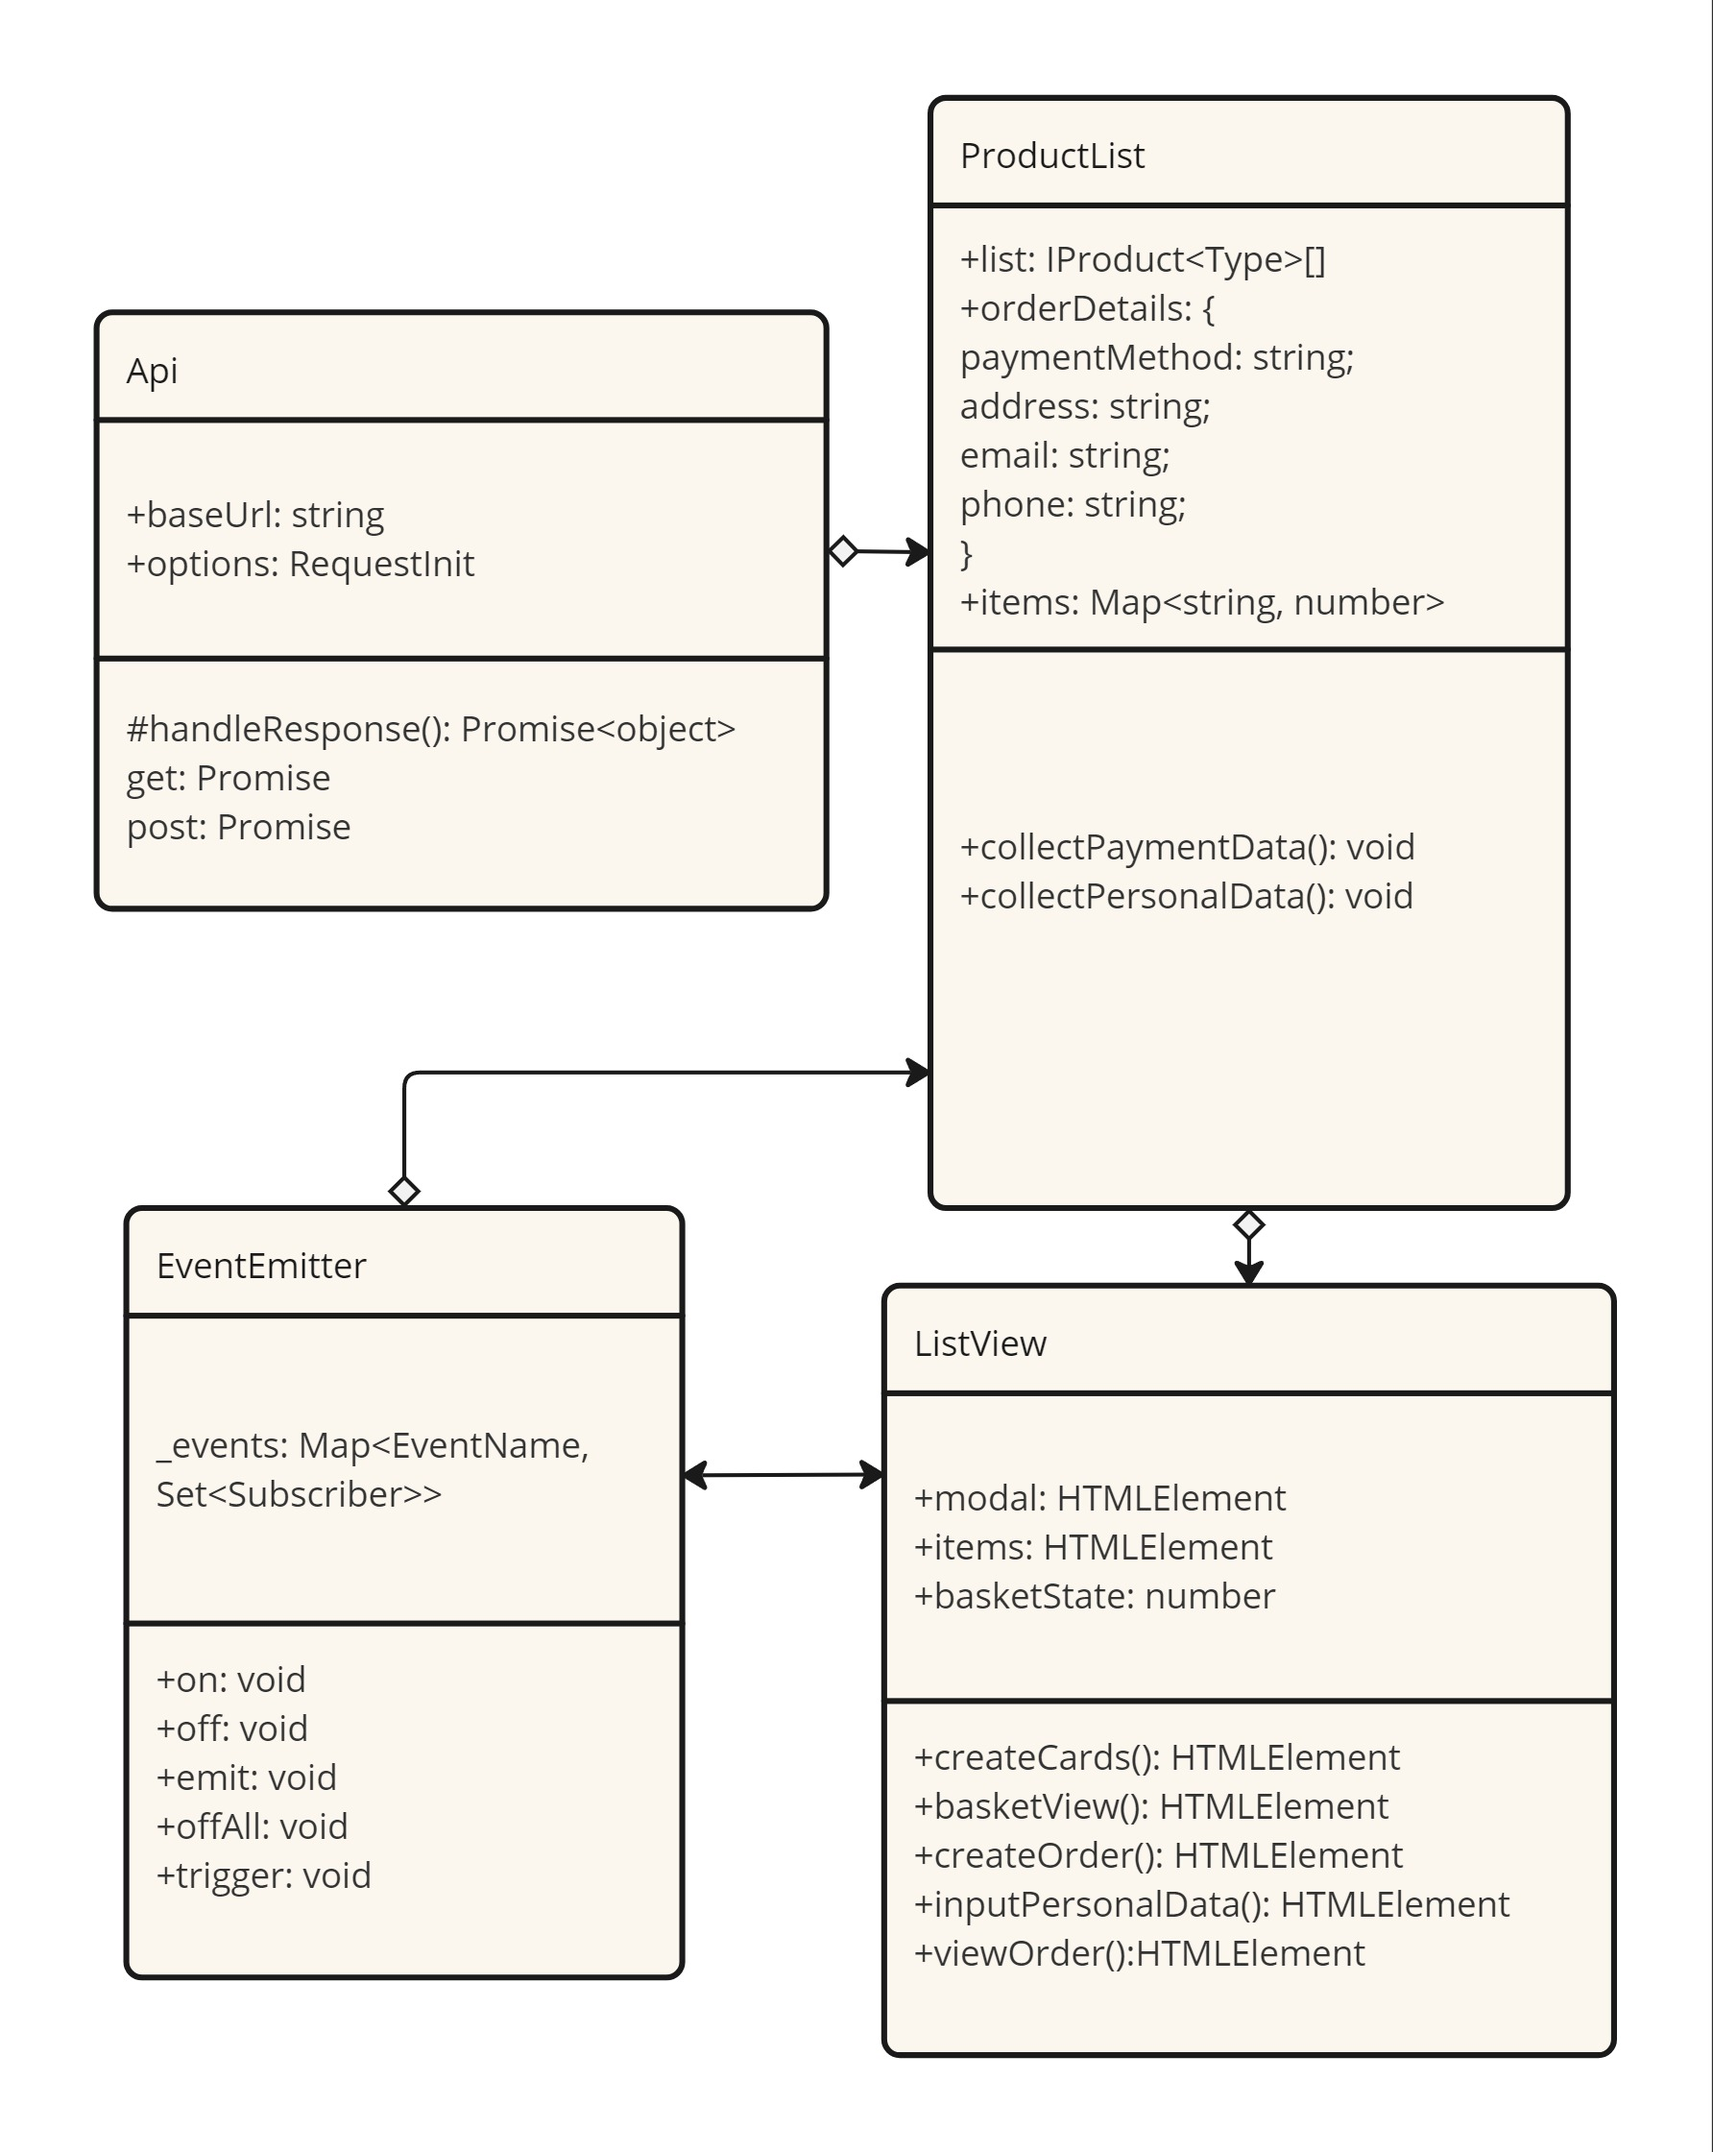
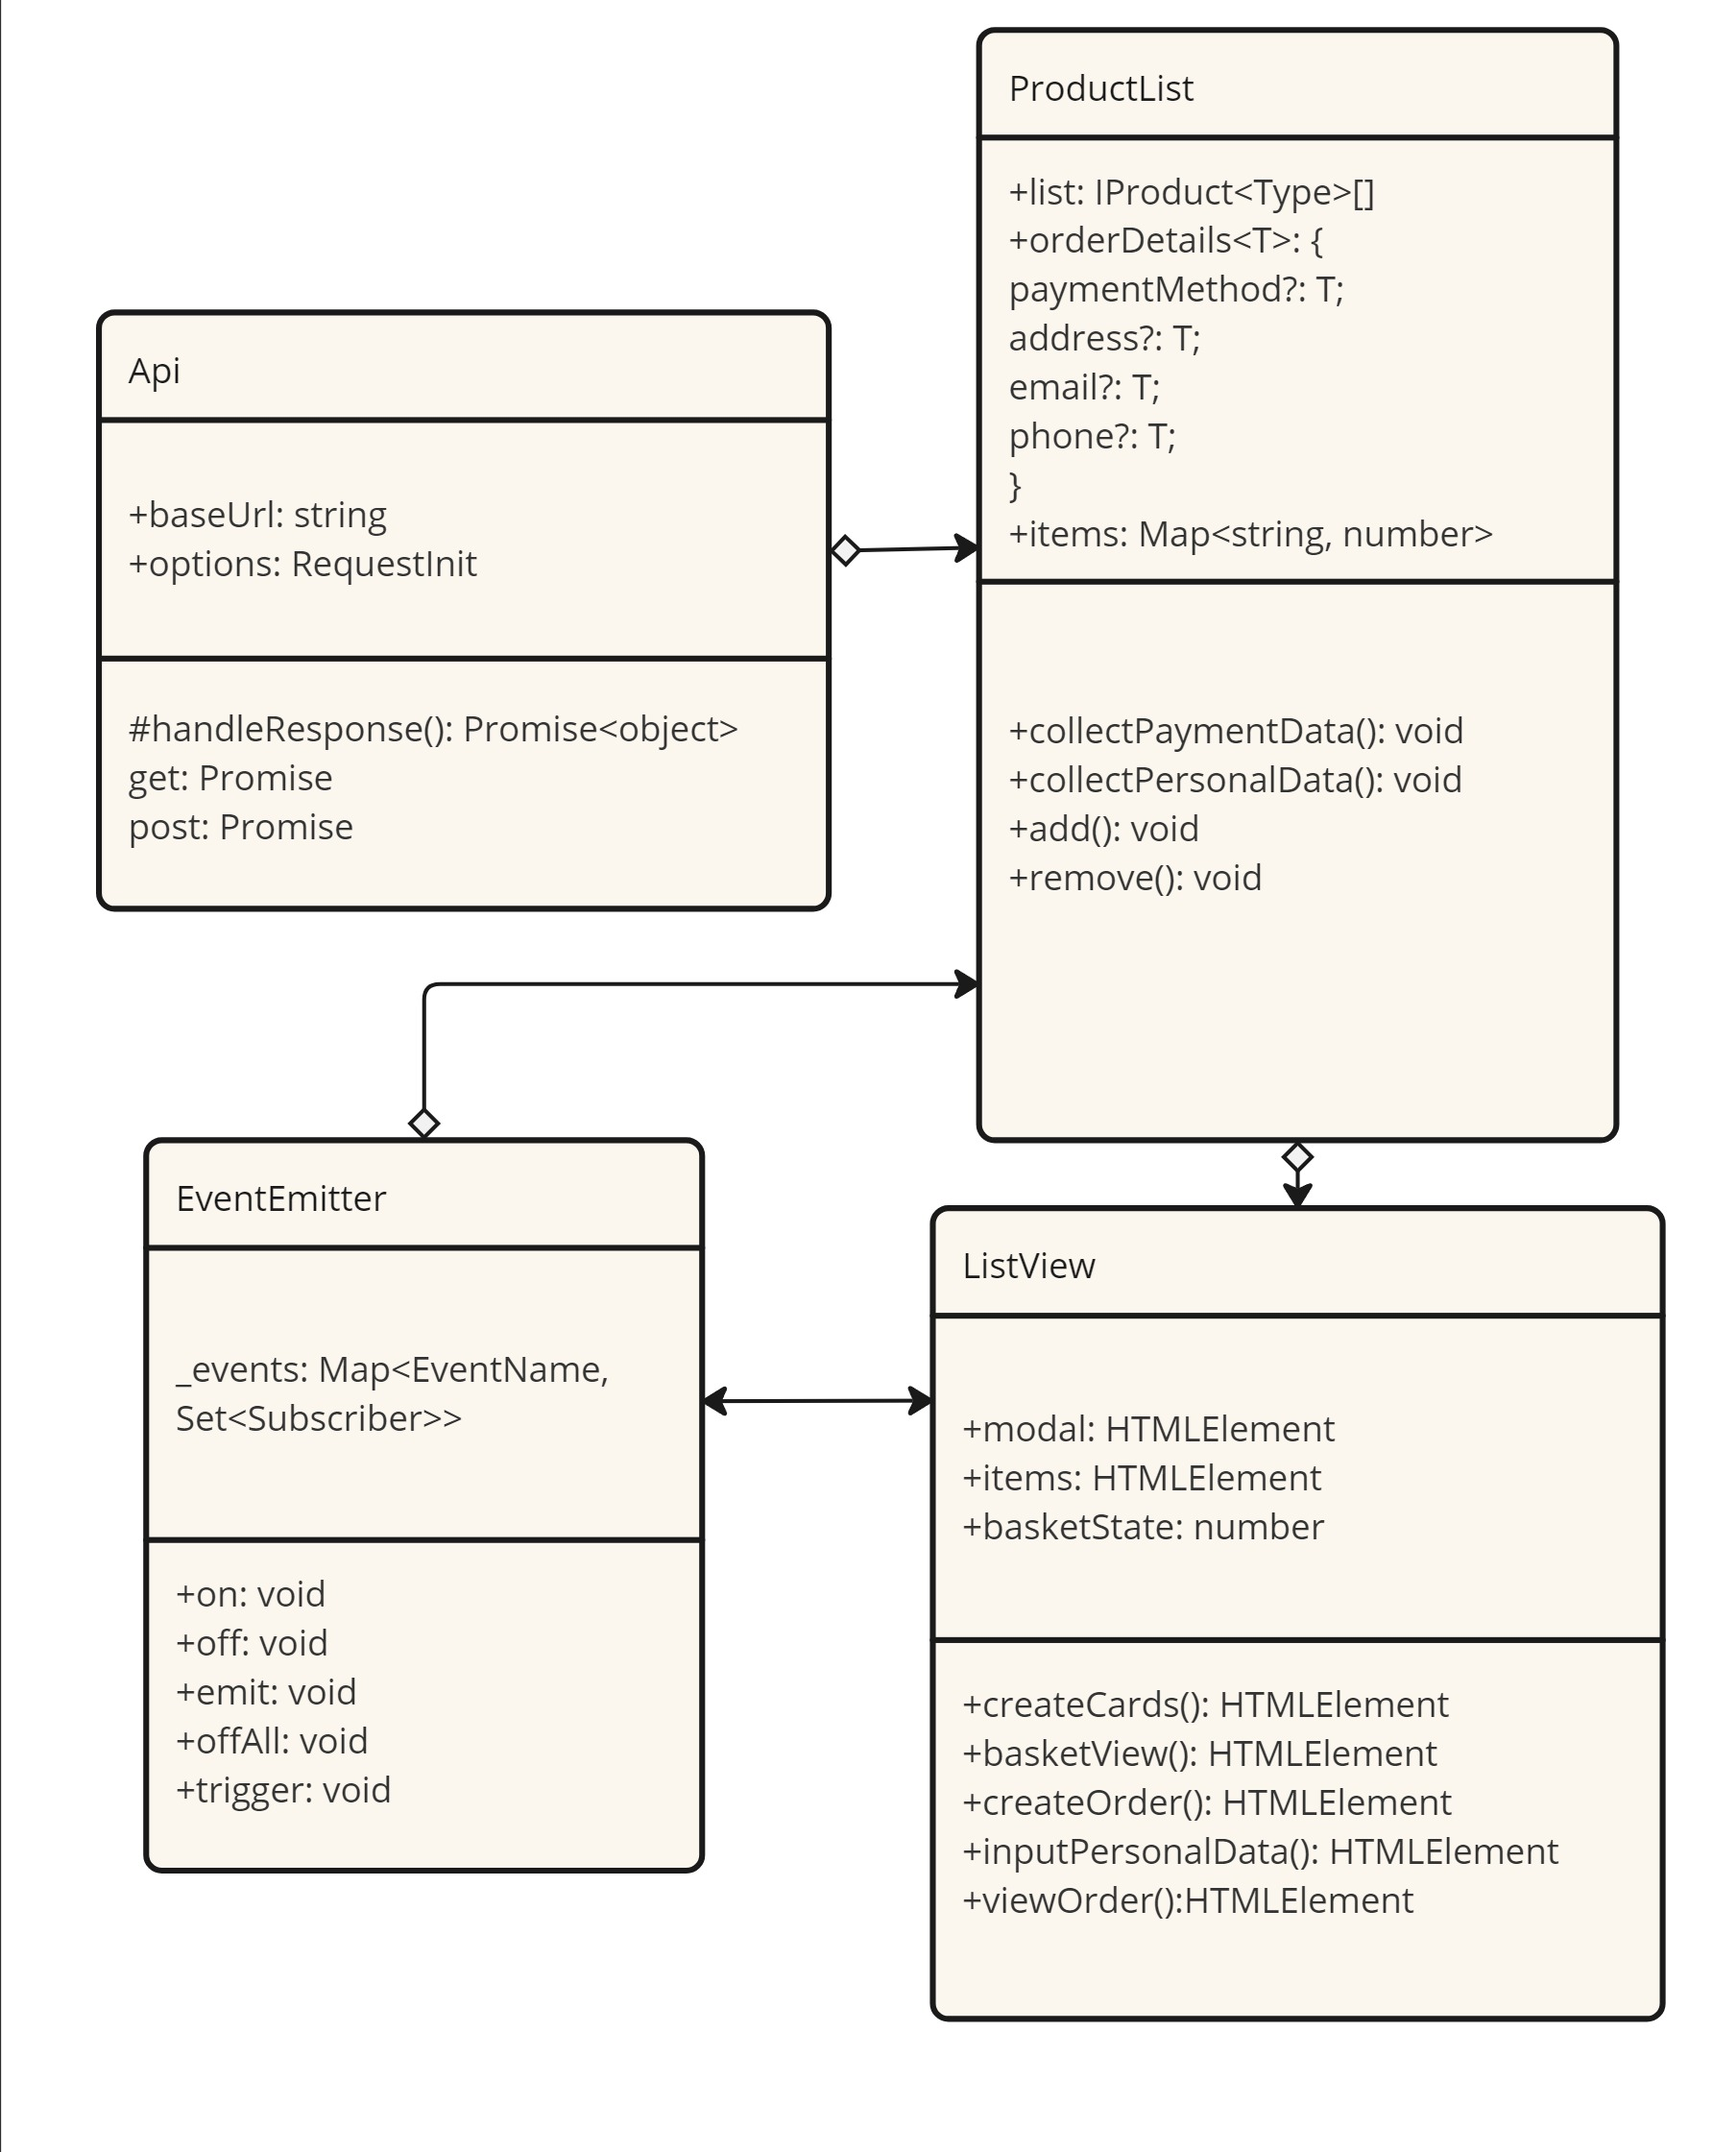
2.0

diff --git a/src/types/index.ts b/src/types/index.ts
@@ -15,10 +15,10 @@ export interface ItemList extends IProduct<string> {
 export interface IBasket<T> {
   items: Map<string, number>;
   orderDetails: {
-    paymentMethod: T;
-    address: T;
-    email: T;
-    phone: T;
+    paymentMethod?: T;
+    address?: T;
+    email?: T;
+    phone?: T;
   };
   add(id:T): void;
   remove(id:T): void;

diff --git a/README.md b/README.md
@@ -60,21 +60,21 @@ yarn build
 ## Архитектура проекта (MVC)
 
 ### Model
-Класс ProductList отвечает за формирование объекта из полученного от API списка товаров. Он использует интерфейс IProduct, который описывает типы всех получаемых от API данных. Данный класс также отвечает за предоставление подробных данных о товаре при открытии карточки товара в модальном окне. 
-В коллекцию items с интерфейсом IBasket будет сохраняться временный список выбранных пользователем товаров, для последующего оформления покупки. 
+Класс ProductList отвечает за формирование объекта из полученного от API списка товаров. Он использует интерфейс IProduct, который описывает типы всех получаемых от API данных. Этот класс также отвечает за предоставление подробных данных о товаре при открытии карточки товара в модальном окне.
+В коллекцию items с интерфейсом IBasket будет сохраняться временный список выбранных пользователем товаров, для последующего оформления покупки. Метод add - добавляет товар в корзину, remove - удаляет из корзины.
 Свойство OrderDetails собирает данные пользователя для оформлении заказа. 
-* Метод collectPaymentData с типом Delivery принимает способ оплаты и адрес доставки.
-* Метод collectPersonalData с типом PersonalData принимает телефон и email.
+* Метод collectPaymentData с типом Delivery принимает способ оплаты, адрес доставки и записывает в свойство OrderDetails.
+* Метод collectPersonalData с типом PersonalData записывает телефон и email.
 
 ### View
 Слой отображения, используя класс ListView и его метод createCards отвечает за наполнение верстки экземплярами класса ProductList. В свою очередь, метод basketView отображает текущее состояние корзины товаров с порядковыми номерами, кнопками удаления товара, оформления и закрытия окна. Нажатие на товар открывает компонент modal с карточкой товара.\
-При получении сигнала от контроллера о нажатии кнопки "Оформить" в корзине:
+При получении сигнала от контроллера о нажатии кнопки "Оформить" в корзине происходит оформление заказа:
 * Метод createOrder отображает форму выбора способа оплаты и адреса для доставки с типом Delivery;
 * Метод inputPersonalData отображает форму для ввода email и номера телефона с типом PersonalData;
 * При успешном оформлении товара, метод viewOrder информирует об успешном оформлении заказа. На каждом из этапов в случае ошибки отображается информация об ошибке типа Error.
 
 ### Controller
-Класс EventEmitter, подключает и снимает слушатели с пользовательских элементов управления экземпляров класса ListView, открывают и закрывают модальное окно  путём клика на соответствующие компоненты управления. Устанавливает слушатель на кнопки подтверждения действия в открытом модальном окне карточки, а также обработчики на закрытие окна по нажатию на соответствующую кнопку или вне окна. При нажатии пользователем кнопки "Купить", обработчик отправит соответствующий экземпляр класса ProductList в коллекцию items. При изменении числа товаров в корзине происходит обновление счетчика корзины. Вводимы в формах данные записываются в соответствующие свойства класса ProductList.
+Класс EventEmitter, подключает и снимает слушатели с пользовательских элементов управления экземпляров класса ListView, открывают и закрывают модальное окно  путём клика на соответствующие компоненты управления. Устанавливает слушатель на кнопки подтверждения действия в открытом модальном окне карточки, а также обработчики на закрытие окна по нажатию на соответствующую кнопку или вне окна. При нажатии пользователем кнопки "Купить", обработчик отправит соответствующий экземпляр класса ProductList в коллекцию items. При изменении числа товаров в корзине происходит обновление счетчика корзины. Вводимые в формах данные передаются классу ProductList для последующего заполнения объекта.
 
 
 
